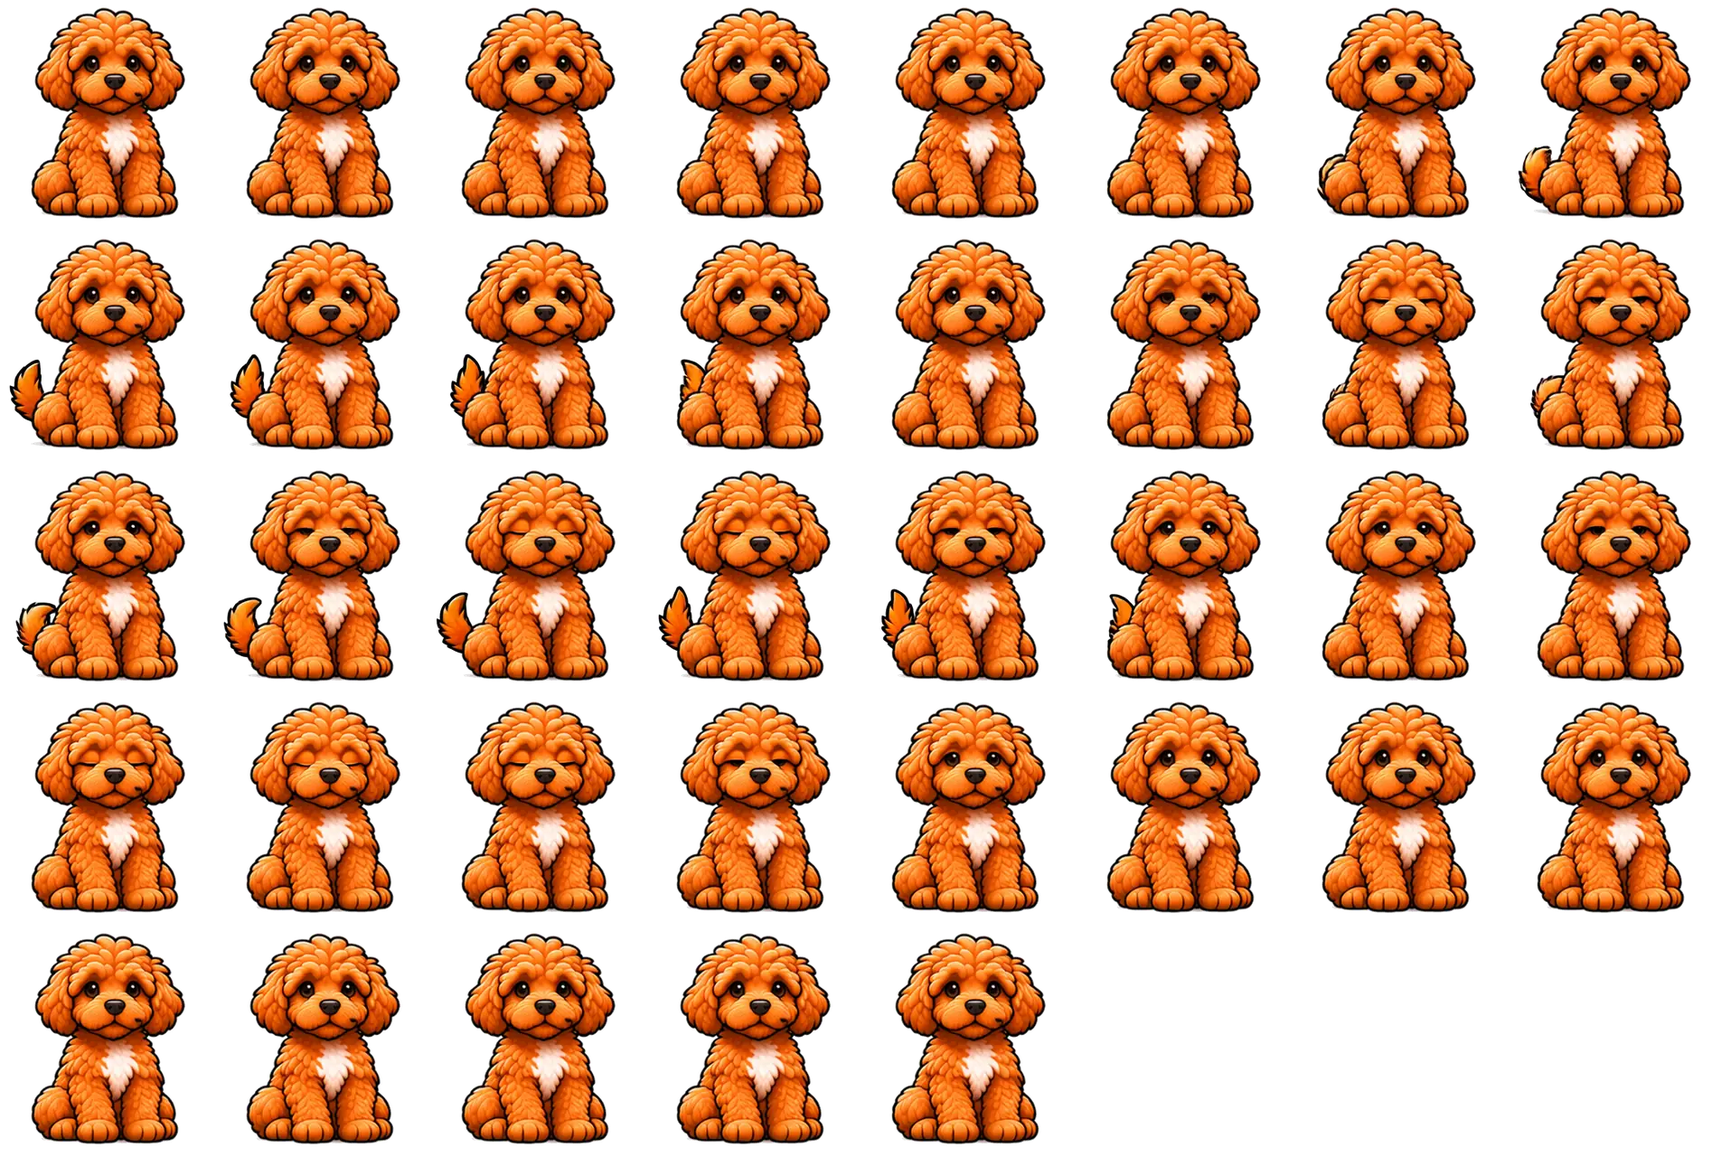
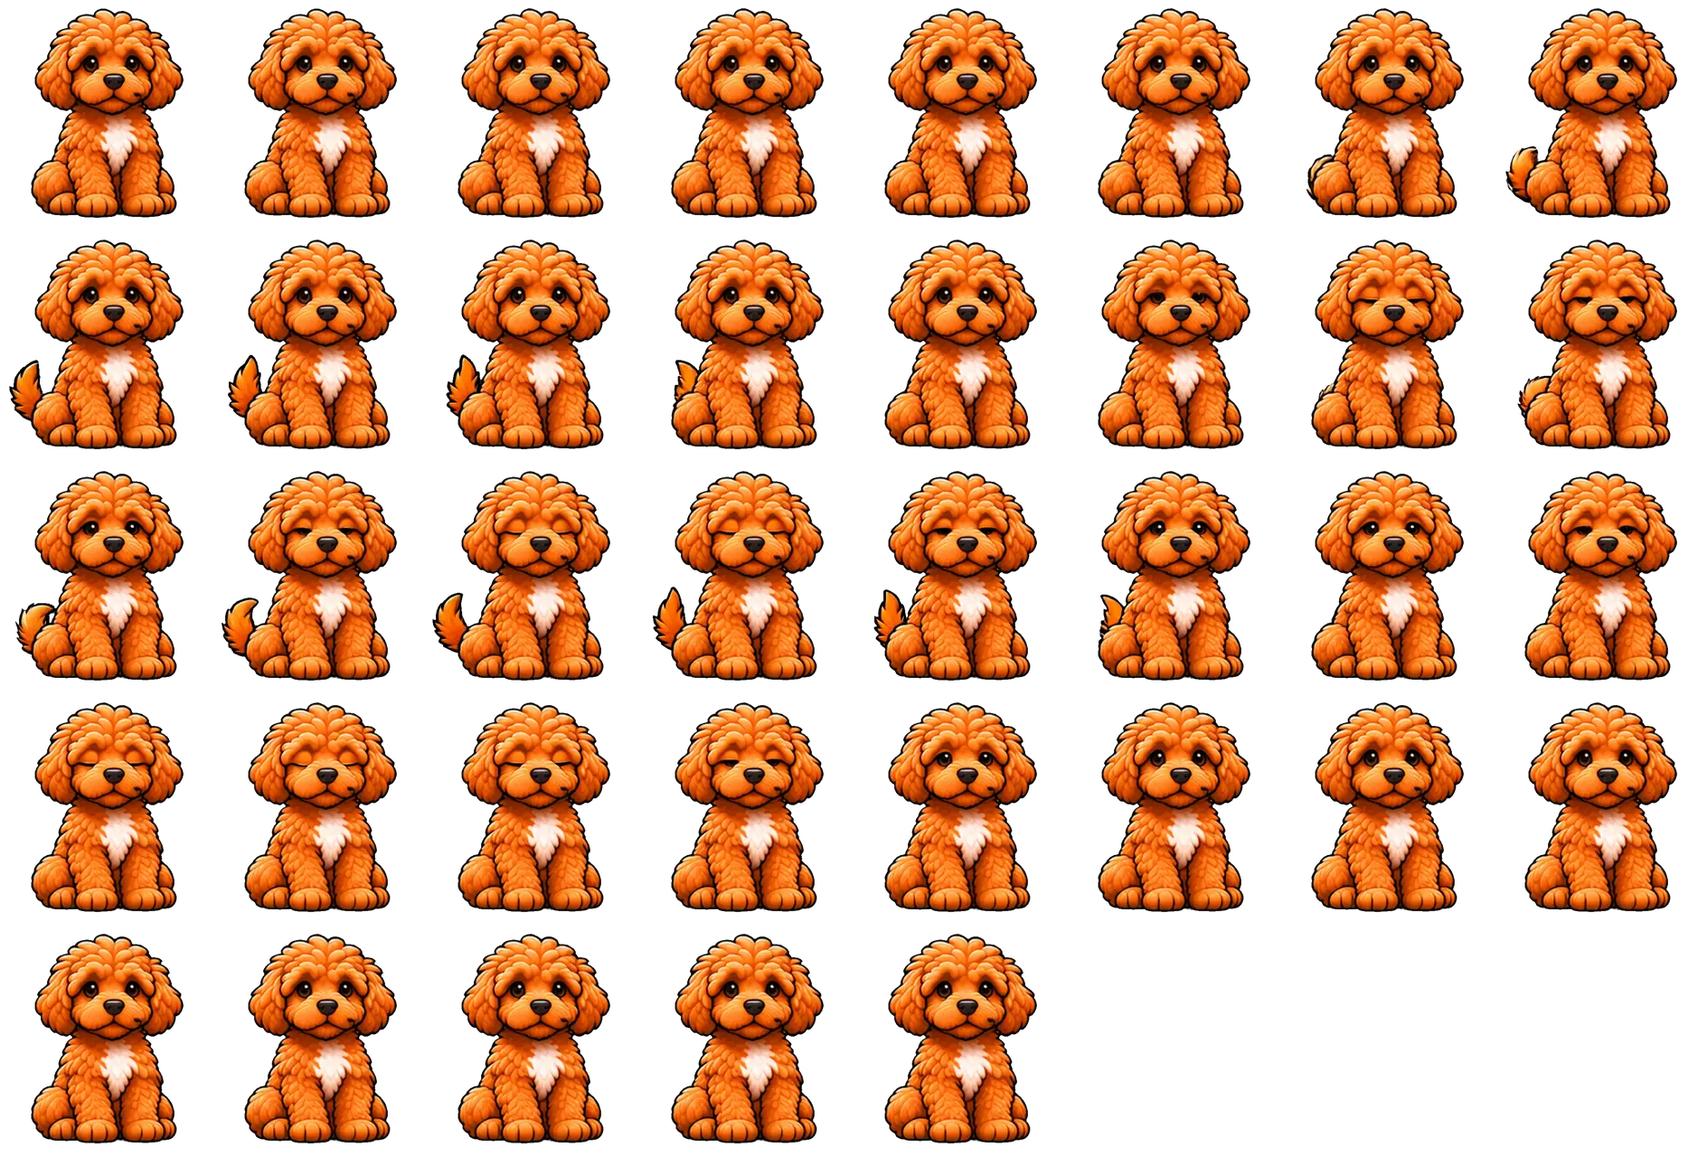
Puppy: clean cutouts, no white; faster menu; puppy ready before the room opens
- New cutout removes enclosed white gaps and ground shadows, keeps the cream chest and eye shines; all sheets rebuilt
- The map stops redrawing while a full-screen page (menu, book, mail room, puppy room, calendar) covers it
- Menu backdrop is a pre-blurred picture instead of a live blur; menu art is preloaded at idle
- Puppy sheets are fetched and decoded at idle after launch, so the room opens with the puppy already there

Claude-Session: https://claude.ai/code/session_0145mXhkBNAArn9vXr6Qfsp7

diff --git a/index.html b/index.html
@@ -412,9 +412,9 @@ body.locked #app, body.locked #intro, body.locked #lightbox, body.locked #quote{
 #dash{position:fixed; inset:0; z-index:28; display:none; overflow:auto; color:var(--ink)}
 #dash.on{display:block; animation:dIn .2s ease-out}
 @keyframes dIn{from{opacity:0}}
-#dash .d-bg{position:fixed; inset:-12px; background:url(art/pets/room.jpg) center/cover; filter:blur(3px) saturate(1.05); transform:scale(1.03)}
+#dash .d-bg{position:fixed; inset:0; background:url(art/pets/room-blur.jpg) center/cover}   /* pre-blurred picture: no live blur to paint on a phone */
 #dash .d-bg:after{content:''; position:absolute; inset:0; background:rgba(74,30,40,.48)}
-@media (max-aspect-ratio:9/10){ #dash .d-bg{background-image:url(art/pets/room-mobile.jpg)} }
+@media (max-aspect-ratio:9/10){ #dash .d-bg{background-image:url(art/pets/room-mobile-blur.jpg)} }
 #dash .d-in{position:relative; max-width:860px; margin:0 auto; padding:calc(14px + env(safe-area-inset-top)) 16px calc(24px + env(safe-area-inset-bottom))}
 .d-top{display:flex; align-items:center; justify-content:space-between; gap:10px}
 .d-top .pxbtn{height:46px; min-width:46px; padding:0 12px; font-size:15px}
@@ -2489,10 +2489,17 @@ function draw() {
 }
 
 var lastTick = 0;
+/* a full-screen page (menu, book, mail room, puppy room, calendar) hides the map, so the map stops redrawing under it */
+var COVER_IDS = ['dash', 'bookScene', 'mailScene', 'petScene'];
+function mapCovered() {
+  for (var i = 0; i < COVER_IDS.length; i++) { var e = document.getElementById(COVER_IDS[i]); if (e && e.classList.contains('on')) return true; }
+  var c = document.getElementById('cal'); return !!(c && c.classList.contains('open'));
+}
 function loop(t) {
   requestAnimationFrame(loop);
   if (t - lastTick < (reduceMotion ? 500 : 50)) return;
   lastTick = t;
+  if (mapCovered()) return;
   if (!reduceMotion) cloudPhase += 0.55;
   draw();
 }
@@ -7353,7 +7360,7 @@ setInterval(function () {
 
 /* ---- features/pet-anims.js ---- */
 /* Generated by tools/puppy-sheets.py: the puppy animation sheets (art/pets/puppy-<name>.webp). Do not edit by hand. */
-var PUP_ANIMS = {"eat": {"ch": 256, "cols": 8, "cw": 196, "fps": 12, "n": 49, "rows": 7}, "hop": {"ch": 256, "cols": 8, "cw": 262, "fps": 12, "n": 37, "rows": 5}, "idle": {"ch": 256, "cols": 8, "cw": 238, "fps": 12, "n": 37, "rows": 5}, "lie": {"ch": 256, "cols": 6, "cw": 238, "fps": 10, "n": 30, "rows": 5}, "look": {"ch": 256, "cols": 8, "cw": 234, "fps": 10, "n": 40, "rows": 5}, "pet": {"ch": 256, "cols": 8, "cw": 246, "fps": 12, "n": 37, "rows": 5}, "play": {"ch": 256, "cols": 8, "cw": 290, "fps": 12, "n": 37, "rows": 5}, "settle": {"ch": 256, "cols": 6, "cw": 242, "fps": 10, "n": 30, "rows": 5}, "sleep": {"ch": 256, "cols": 6, "cw": 228, "fps": 8, "n": 32, "rows": 6}, "wake": {"ch": 256, "cols": 8, "cw": 294, "fps": 10, "n": 40, "rows": 5}, "walk": {"ch": 256, "cols": 8, "cw": 216, "fps": 14, "n": 24, "rows": 3}, "yawn": {"ch": 256, "cols": 6, "cw": 184, "fps": 10, "n": 30, "rows": 5}};
+var PUP_ANIMS = {"eat": {"ch": 256, "cols": 8, "cw": 194, "fps": 12, "n": 49, "rows": 7}, "hop": {"ch": 256, "cols": 8, "cw": 260, "fps": 12, "n": 37, "rows": 5}, "idle": {"ch": 256, "cols": 8, "cw": 236, "fps": 12, "n": 37, "rows": 5}, "lie": {"ch": 256, "cols": 6, "cw": 236, "fps": 10, "n": 30, "rows": 5}, "look": {"ch": 256, "cols": 8, "cw": 232, "fps": 10, "n": 40, "rows": 5}, "pet": {"ch": 256, "cols": 8, "cw": 244, "fps": 12, "n": 37, "rows": 5}, "play": {"ch": 256, "cols": 8, "cw": 288, "fps": 12, "n": 37, "rows": 5}, "settle": {"ch": 256, "cols": 6, "cw": 240, "fps": 10, "n": 30, "rows": 5}, "sleep": {"ch": 256, "cols": 6, "cw": 226, "fps": 8, "n": 32, "rows": 6}, "wake": {"ch": 256, "cols": 8, "cw": 292, "fps": 10, "n": 40, "rows": 5}, "walk": {"ch": 256, "cols": 8, "cw": 216, "fps": 14, "n": 24, "rows": 3}, "yawn": {"ch": 256, "cols": 6, "cw": 182, "fps": 10, "n": 30, "rows": 5}};
 
 /* ---- features/pet-fittings.js ---- */
 /* Coordinates are in the actual puppy's 195 × 236 front view or 256px
@@ -7711,11 +7718,16 @@ var puppyMotion = new Image(); puppyMotion.src = 'art/pets/puppy-motion.png';
    lie down, settle, wake) play once and hand back. Asleep: the sleep loop. */
 var PUPIMG = {};
 function pupImg(name) {
-  if (!PUPIMG[name] && PUP_ANIMS[name]) { var im = new Image(); im.src = 'art/pets/puppy-' + name + '.webp'; PUPIMG[name] = im; }
+  if (!PUPIMG[name] && PUP_ANIMS[name]) { var im = new Image(); im.src = 'art/pets/puppy-' + name + '.webp'; PUPIMG[name] = im; if (im.decode) im.decode().catch(function () {}); }   /* decoded ahead, so the first frame never waits */
   return PUPIMG[name];
 }
 function pupReady(name) { var im = pupImg(name); return !!(im && im.complete && im.naturalWidth); }
-function pupPreload() { ['idle', 'sleep'].forEach(pupImg); setTimeout(function () { Object.keys(PUP_ANIMS).forEach(pupImg); }, 1200); }
+function pupPreload() { if (PC.warm) return; PC.warm = 1; ['idle', 'look', 'yawn', 'sleep'].forEach(pupImg); setTimeout(function () { Object.keys(PUP_ANIMS).forEach(pupImg); }, 1500); }
+/* shortly after the app starts, while the map is quiet, fetch the puppy so the room opens with it already there (skipped on data saver) */
+setTimeout(function () {
+  if (navigator.connection && navigator.connection.saveData) return;
+  (window.requestIdleCallback || function (fn) { setTimeout(fn, 800); })(pupPreload, { timeout: 8000 });
+}, 4000);
 var PC = { clip: null, t0: 0, onEnd: null, idleName: 'idle', it0: 0, rest: 2500, drawn: '', pre: 0 };
 function pupPlay(name, onEnd) {
   if (reduceMotion || !PUP_ANIMS[name] || !pupReady(name)) { if (onEnd) onEnd(); return; }
@@ -8229,6 +8241,8 @@ function todayCardHtml() {
     (label ? '<span class="nx">' + esc(label) + '</span>' : '') + '</button>';
 }
 function dashClose() { if (dashEl) dashEl.classList.remove('on'); }
+/* warm the menu's pictures while the map is idle, so the first open does not wait on them */
+setTimeout(function () { (window.requestIdleCallback || setTimeout)(function () { DASH.forEach(function (t) { var i = new Image(); i.src = t[1]; }); ['art/pets/room-blur.jpg', 'art/pets/room-mobile-blur.jpg'].forEach(function (u) { var i = new Image(); i.src = u; }); }); }, 2500);
 function subPage(title, sub, rows) {
   openSheet('<div class="mn-hd"><button class="mn-back" type="button" data-act="more" aria-label="Back">‹</button><div style="flex:1"><h2>' + esc(title) + '</h2>' + (sub ? '<div class="mn-sub">' + esc(sub) + '</div>' : '') + '</div>' +
     '<button class="closex" type="button" data-act="close" aria-label="Close">✕</button></div><div class="list mn-list">' + rows + '</div>');

diff --git a/src/features/pet-anims.js b/src/features/pet-anims.js
@@ -1,2 +1,2 @@
 /* Generated by tools/puppy-sheets.py: the puppy animation sheets (art/pets/puppy-<name>.webp). Do not edit by hand. */
-var PUP_ANIMS = {"eat": {"ch": 256, "cols": 8, "cw": 196, "fps": 12, "n": 49, "rows": 7}, "hop": {"ch": 256, "cols": 8, "cw": 262, "fps": 12, "n": 37, "rows": 5}, "idle": {"ch": 256, "cols": 8, "cw": 238, "fps": 12, "n": 37, "rows": 5}, "lie": {"ch": 256, "cols": 6, "cw": 238, "fps": 10, "n": 30, "rows": 5}, "look": {"ch": 256, "cols": 8, "cw": 234, "fps": 10, "n": 40, "rows": 5}, "pet": {"ch": 256, "cols": 8, "cw": 246, "fps": 12, "n": 37, "rows": 5}, "play": {"ch": 256, "cols": 8, "cw": 290, "fps": 12, "n": 37, "rows": 5}, "settle": {"ch": 256, "cols": 6, "cw": 242, "fps": 10, "n": 30, "rows": 5}, "sleep": {"ch": 256, "cols": 6, "cw": 228, "fps": 8, "n": 32, "rows": 6}, "wake": {"ch": 256, "cols": 8, "cw": 294, "fps": 10, "n": 40, "rows": 5}, "walk": {"ch": 256, "cols": 8, "cw": 216, "fps": 14, "n": 24, "rows": 3}, "yawn": {"ch": 256, "cols": 6, "cw": 184, "fps": 10, "n": 30, "rows": 5}};
+var PUP_ANIMS = {"eat": {"ch": 256, "cols": 8, "cw": 194, "fps": 12, "n": 49, "rows": 7}, "hop": {"ch": 256, "cols": 8, "cw": 260, "fps": 12, "n": 37, "rows": 5}, "idle": {"ch": 256, "cols": 8, "cw": 236, "fps": 12, "n": 37, "rows": 5}, "lie": {"ch": 256, "cols": 6, "cw": 236, "fps": 10, "n": 30, "rows": 5}, "look": {"ch": 256, "cols": 8, "cw": 232, "fps": 10, "n": 40, "rows": 5}, "pet": {"ch": 256, "cols": 8, "cw": 244, "fps": 12, "n": 37, "rows": 5}, "play": {"ch": 256, "cols": 8, "cw": 288, "fps": 12, "n": 37, "rows": 5}, "settle": {"ch": 256, "cols": 6, "cw": 240, "fps": 10, "n": 30, "rows": 5}, "sleep": {"ch": 256, "cols": 6, "cw": 226, "fps": 8, "n": 32, "rows": 6}, "wake": {"ch": 256, "cols": 8, "cw": 292, "fps": 10, "n": 40, "rows": 5}, "walk": {"ch": 256, "cols": 8, "cw": 216, "fps": 14, "n": 24, "rows": 3}, "yawn": {"ch": 256, "cols": 6, "cw": 182, "fps": 10, "n": 30, "rows": 5}};

diff --git a/src/index.html b/src/index.html
@@ -373,9 +373,9 @@ body.locked #app, body.locked #intro, body.locked #lightbox, body.locked #quote{
 #dash{position:fixed; inset:0; z-index:28; display:none; overflow:auto; color:var(--ink)}
 #dash.on{display:block; animation:dIn .2s ease-out}
 @keyframes dIn{from{opacity:0}}
-#dash .d-bg{position:fixed; inset:-12px; background:url(art/pets/room.jpg) center/cover; filter:blur(3px) saturate(1.05); transform:scale(1.03)}
+#dash .d-bg{position:fixed; inset:0; background:url(art/pets/room-blur.jpg) center/cover}   /* pre-blurred picture: no live blur to paint on a phone */
 #dash .d-bg:after{content:''; position:absolute; inset:0; background:rgba(74,30,40,.48)}
-@media (max-aspect-ratio:9/10){ #dash .d-bg{background-image:url(art/pets/room-mobile.jpg)} }
+@media (max-aspect-ratio:9/10){ #dash .d-bg{background-image:url(art/pets/room-mobile-blur.jpg)} }
 #dash .d-in{position:relative; max-width:860px; margin:0 auto; padding:calc(14px + env(safe-area-inset-top)) 16px calc(24px + env(safe-area-inset-bottom))}
 .d-top{display:flex; align-items:center; justify-content:space-between; gap:10px}
 .d-top .pxbtn{height:46px; min-width:46px; padding:0 12px; font-size:15px}
@@ -2013,10 +2013,17 @@ function draw() {
 }
 
 var lastTick = 0;
+/* a full-screen page (menu, book, mail room, puppy room, calendar) hides the map, so the map stops redrawing under it */
+var COVER_IDS = ['dash', 'bookScene', 'mailScene', 'petScene'];
+function mapCovered() {
+  for (var i = 0; i < COVER_IDS.length; i++) { var e = document.getElementById(COVER_IDS[i]); if (e && e.classList.contains('on')) return true; }
+  var c = document.getElementById('cal'); return !!(c && c.classList.contains('open'));
+}
 function loop(t) {
   requestAnimationFrame(loop);
   if (t - lastTick < (reduceMotion ? 500 : 50)) return;
   lastTick = t;
+  if (mapCovered()) return;
   if (!reduceMotion) cloudPhase += 0.55;
   draw();
 }

diff --git a/src/features/pet.js b/src/features/pet.js
@@ -279,11 +279,16 @@ var puppyMotion = new Image(); puppyMotion.src = 'art/pets/puppy-motion.png';
    lie down, settle, wake) play once and hand back. Asleep: the sleep loop. */
 var PUPIMG = {};
 function pupImg(name) {
-  if (!PUPIMG[name] && PUP_ANIMS[name]) { var im = new Image(); im.src = 'art/pets/puppy-' + name + '.webp'; PUPIMG[name] = im; }
+  if (!PUPIMG[name] && PUP_ANIMS[name]) { var im = new Image(); im.src = 'art/pets/puppy-' + name + '.webp'; PUPIMG[name] = im; if (im.decode) im.decode().catch(function () {}); }   /* decoded ahead, so the first frame never waits */
   return PUPIMG[name];
 }
 function pupReady(name) { var im = pupImg(name); return !!(im && im.complete && im.naturalWidth); }
-function pupPreload() { ['idle', 'sleep'].forEach(pupImg); setTimeout(function () { Object.keys(PUP_ANIMS).forEach(pupImg); }, 1200); }
+function pupPreload() { if (PC.warm) return; PC.warm = 1; ['idle', 'look', 'yawn', 'sleep'].forEach(pupImg); setTimeout(function () { Object.keys(PUP_ANIMS).forEach(pupImg); }, 1500); }
+/* shortly after the app starts, while the map is quiet, fetch the puppy so the room opens with it already there (skipped on data saver) */
+setTimeout(function () {
+  if (navigator.connection && navigator.connection.saveData) return;
+  (window.requestIdleCallback || function (fn) { setTimeout(fn, 800); })(pupPreload, { timeout: 8000 });
+}, 4000);
 var PC = { clip: null, t0: 0, onEnd: null, idleName: 'idle', it0: 0, rest: 2500, drawn: '', pre: 0 };
 function pupPlay(name, onEnd) {
   if (reduceMotion || !PUP_ANIMS[name] || !pupReady(name)) { if (onEnd) onEnd(); return; }

diff --git a/src/features/more.js b/src/features/more.js
@@ -115,6 +115,8 @@ function todayCardHtml() {
     (label ? '<span class="nx">' + esc(label) + '</span>' : '') + '</button>';
 }
 function dashClose() { if (dashEl) dashEl.classList.remove('on'); }
+/* warm the menu's pictures while the map is idle, so the first open does not wait on them */
+setTimeout(function () { (window.requestIdleCallback || setTimeout)(function () { DASH.forEach(function (t) { var i = new Image(); i.src = t[1]; }); ['art/pets/room-blur.jpg', 'art/pets/room-mobile-blur.jpg'].forEach(function (u) { var i = new Image(); i.src = u; }); }); }, 2500);
 function subPage(title, sub, rows) {
   openSheet('<div class="mn-hd"><button class="mn-back" type="button" data-act="more" aria-label="Back">‹</button><div style="flex:1"><h2>' + esc(title) + '</h2>' + (sub ? '<div class="mn-sub">' + esc(sub) + '</div>' : '') + '</div>' +
     '<button class="closex" type="button" data-act="close" aria-label="Close">✕</button></div><div class="list mn-list">' + rows + '</div>');

diff --git a/tools/puppy-sheets.py b/tools/puppy-sheets.py
@@ -13,36 +13,13 @@ y 88..901, so it is scaled by 0.287 and centred on x 458 with its feet on the gr
 """
 import sys, os, glob, shutil, subprocess, collections, json, math, tempfile
 from PIL import Image, ImageFilter
+sys.path.insert(0, os.path.dirname(os.path.abspath(__file__)))
+from puppy_cut import cut as cut_bg
 
 REF_SCALE = 0.287            # 0.91 * 256 / (901 - 88)
 REF_CX, REF_FEET = 458, 901  # body centre x and feet y in the 960 px frame
 CH = 256
 GROUND = CH - round(0.055 * CH)
-
-
-def cut(im):
-    im = im.convert('RGB'); w, h = im.size; px = im.load()
-    seen = bytearray(w * h); q = collections.deque()
-    near = lambda p: p[0] > 228 and p[1] > 228 and p[2] > 228
-    for x in range(w):
-        for y in (0, h - 1):
-            if near(px[x, y]) and not seen[y * w + x]: seen[y * w + x] = 1; q.append((x, y))
-    for y in range(h):
-        for x in (0, w - 1):
-            if near(px[x, y]) and not seen[y * w + x]: seen[y * w + x] = 1; q.append((x, y))
-    while q:
-        x, y = q.popleft()
-        for dx, dy in ((1, 0), (-1, 0), (0, 1), (0, -1)):
-            nx, ny = x + dx, y + dy
-            if 0 <= nx < w and 0 <= ny < h and not seen[ny * w + nx] and near(px[nx, ny]):
-                seen[ny * w + nx] = 1; q.append((nx, ny))
-    a = Image.new('L', (w, h), 255); ap = a.load()
-    for y in range(h):
-        for x in range(w):
-            if seen[y * w + x]: ap[x, y] = 0
-    a = a.filter(ImageFilter.GaussianBlur(0.7))
-    out = im.convert('RGBA'); out.putalpha(a)
-    return out
 
 
 def main():
@@ -53,15 +30,18 @@ def main():
     subprocess.check_call(['ffmpeg', '-v', 'error', '-i', clip, '-vf', 'fps=%d' % fps, os.path.join(tmp, 'f%03d.png')])
     files = sorted(glob.glob(os.path.join(tmp, 'f*.png')))
     if reverse: files.reverse()
-    cuts = [cut(Image.open(f)) for f in files]
+    SS = 2                                         # cut at twice the final size, then shrink: soft, clean edges
+    W0 = round(960 * REF_SCALE * SS)
+    cuts = [cut_bg(Image.open(f).convert('RGB').resize((W0, W0), Image.LANCZOS), min_gap=140) for f in files]
     boxes = [c.getchannel('A').point(lambda v: 255 if v > 90 else 0).getbbox() for c in cuts]
-    ux0 = min(b[0] for b in boxes); ux1 = max(b[2] for b in boxes)
-    left = (REF_CX - ux0) * REF_SCALE; right = (ux1 - REF_CX) * REF_SCALE
+    k = REF_SCALE * SS
+    ux0 = min(b[0] for b in boxes) / SS; ux1 = max(b[2] for b in boxes) / SS            # in final-size pixels
+    left = REF_CX * REF_SCALE - ux0; right = ux1 - REF_CX * REF_SCALE
     cw = int(2 * max(left, right)) + 12; cw += cw % 2
     n = len(cuts); cols = 6 if n <= 36 else 8; rows = math.ceil(n / cols)
     sheet = Image.new('RGBA', (cw * cols, CH * rows), (0, 0, 0, 0))
     for i, c in enumerate(cuts):
-        sc = c.resize((round(c.width * REF_SCALE), round(c.height * REF_SCALE)), Image.LANCZOS)
+        sc = c.resize((round(c.width / SS), round(c.height / SS)), Image.LANCZOS)
         cell = Image.new('RGBA', (cw, CH), (0, 0, 0, 0))
         cell.alpha_composite(sc, (round(cw / 2 - REF_CX * REF_SCALE), round(GROUND - REF_FEET * REF_SCALE)))
         sheet.alpha_composite(cell, ((i % cols) * cw, (i // cols) * CH))

diff --git a/tools/puppy_cut.py b/tools/puppy_cut.py
@@ -1,0 +1,54 @@
+"""Background removal for the puppy sprites (white or light-grey studio background, grey ground shadows).
+
+Every near-white / light-grey, low-colour region is removed if it touches the picture's edge OR is big enough
+to be a gap (between legs, under the belly, inside the tail curl). Tiny white bits fully inside the dog (eye
+shines, teeth) are kept. The cream chest is warm, so it never matches. A one pixel ring is also removed so no
+white fringe is left on the outline, then the edge is softened a touch.
+"""
+import collections
+from PIL import Image, ImageFilter
+
+
+def is_bg(p):
+    mx = max(p); mn = min(p)
+    return mn > 200 and (mx - mn) < 24
+
+
+def cut(im, min_gap):
+    """im: RGB image. min_gap: pixel area above which an enclosed light region counts as background."""
+    im = im.convert('RGB'); w, h = im.size; px = im.load()
+    cand = bytearray(w * h)
+    for y in range(h):
+        for x in range(w):
+            if is_bg(px[x, y]): cand[y * w + x] = 1
+    seen = bytearray(w * h); bg = bytearray(w * h)
+    for sy in range(h):
+        for sx in range(w):
+            i0 = sy * w + sx
+            if not cand[i0] or seen[i0]: continue
+            comp = [i0]; seen[i0] = 1; q = collections.deque([i0]); edge = False; spread = 0
+            while q:
+                i = q.popleft(); x, y = i % w, i // w
+                p = px[x, y]; spread += max(p) - min(p)
+                if x == 0 or y == 0 or x == w - 1 or y == h - 1: edge = True
+                for j in ((i + 1) if x < w - 1 else -1, (i - 1) if x > 0 else -1, (i + w) if y < h - 1 else -1, (i - w) if y > 0 else -1):
+                    if j >= 0 and cand[j] and not seen[j]: seen[j] = 1; comp.append(j); q.append(j)
+            # outside light region: always background. Enclosed gap: only if big and truly colourless (the cream chest is warm, so it stays)
+            if edge or (len(comp) >= min_gap and spread / len(comp) < 8):
+                for i in comp: bg[i] = 1
+    # light-grey shadow slivers touching the background are background too (never the black outline or the orange fur)
+    q = collections.deque(i for i in range(w * h) if bg[i])
+    while q:
+        i = q.popleft(); x, y = i % w, i // w
+        for j in ((i + 1) if x < w - 1 else -1, (i - 1) if x > 0 else -1, (i + w) if y < h - 1 else -1, (i - w) if y > 0 else -1):
+            if j >= 0 and not bg[j]:
+                p = px[j % w, j // w]
+                if min(p) > 135 and max(p) - min(p) < 16: bg[j] = 1; q.append(j)
+    # grow the removed area by one pixel so no light fringe survives on the outline
+    m = Image.new('L', (w, h), 0); mp = m.load()
+    for i in range(w * h):
+        if bg[i]: mp[i % w, i // w] = 255
+    m = m.filter(ImageFilter.MaxFilter(3))
+    alpha = m.point(lambda v: 0 if v > 127 else 255).filter(ImageFilter.GaussianBlur(0.5))
+    out = im.convert('RGBA'); out.putalpha(alpha)
+    return out

diff --git a/tools/puppy-walk-sheet.py b/tools/puppy-walk-sheet.py
@@ -1,37 +1,18 @@
 #!/usr/bin/env python3
 """Cut the 4 x 6 side-walking sheet (art-src/pets/puppy-walk-sheet.png) into art/pets/puppy-walk.webp
 and register it in tools/puppy-anims.json / src/features/pet-anims.js. The frames face right; the room flips them to walk left."""
-import os, json, collections
-from PIL import Image, ImageFilter
+import os, sys, json
+from PIL import Image
+sys.path.insert(0, os.path.dirname(os.path.abspath(__file__)))
+from puppy_cut import cut as cut_bg
 ROOT = os.path.join(os.path.dirname(os.path.abspath(__file__)), '..')
 ROWS = [(105, 330), (395, 615), (660, 890), (940, 1170)]
 X0, DX, W = 15, 205, 211
 SCALE, CH = 0.98, 256
 GROUND = CH - round(0.055 * CH)
 
-def cut(c):
-    c = c.convert('RGB'); w, h = c.size; px = c.load()
-    near = lambda p: max(p) > 198 and (max(p) - min(p)) < 14
-    seen = bytearray(w * h); q = collections.deque()
-    for x in range(w):
-        for y in (0, h - 1):
-            if near(px[x, y]) and not seen[y * w + x]: seen[y * w + x] = 1; q.append((x, y))
-    for y in range(h):
-        for x in (0, w - 1):
-            if near(px[x, y]) and not seen[y * w + x]: seen[y * w + x] = 1; q.append((x, y))
-    while q:
-        x, y = q.popleft()
-        for dx, dy in ((1, 0), (-1, 0), (0, 1), (0, -1)):
-            nx, ny = x + dx, y + dy
-            if 0 <= nx < w and 0 <= ny < h and not seen[ny * w + nx] and near(px[nx, ny]): seen[ny * w + nx] = 1; q.append((nx, ny))
-    al = Image.new('L', (w, h), 255); ap = al.load()
-    for y in range(h):
-        for x in range(w):
-            if seen[y * w + x]: ap[x, y] = 0
-    o = c.convert('RGBA'); o.putalpha(al.filter(ImageFilter.GaussianBlur(0.6))); return o
-
 im = Image.open(os.path.join(ROOT, 'art-src', 'pets', 'puppy-walk-sheet.png')).convert('RGB')
-frames = [cut(im.crop((X0 + DX * i, ROWS[r][0], X0 + DX * i + W, ROWS[r][1]))) for r in range(4) for i in range(6)]
+frames = [cut_bg(im.crop((X0 + DX * i, ROWS[r][0], X0 + DX * i + W, ROWS[r][1])), min_gap=60) for r in range(4) for i in range(6)]
 cw = round(W * SCALE) + 8; cw += cw % 2
 cols = 8; rows = 3
 sheet = Image.new('RGBA', (cw * cols, CH * rows), (0, 0, 0, 0))
